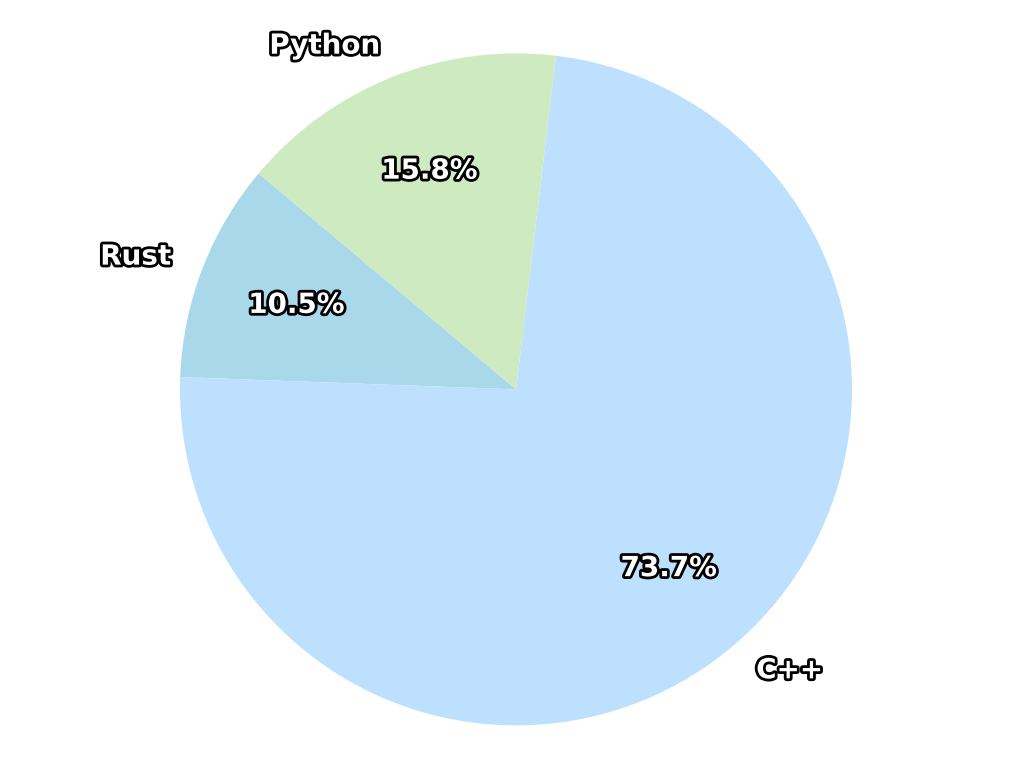
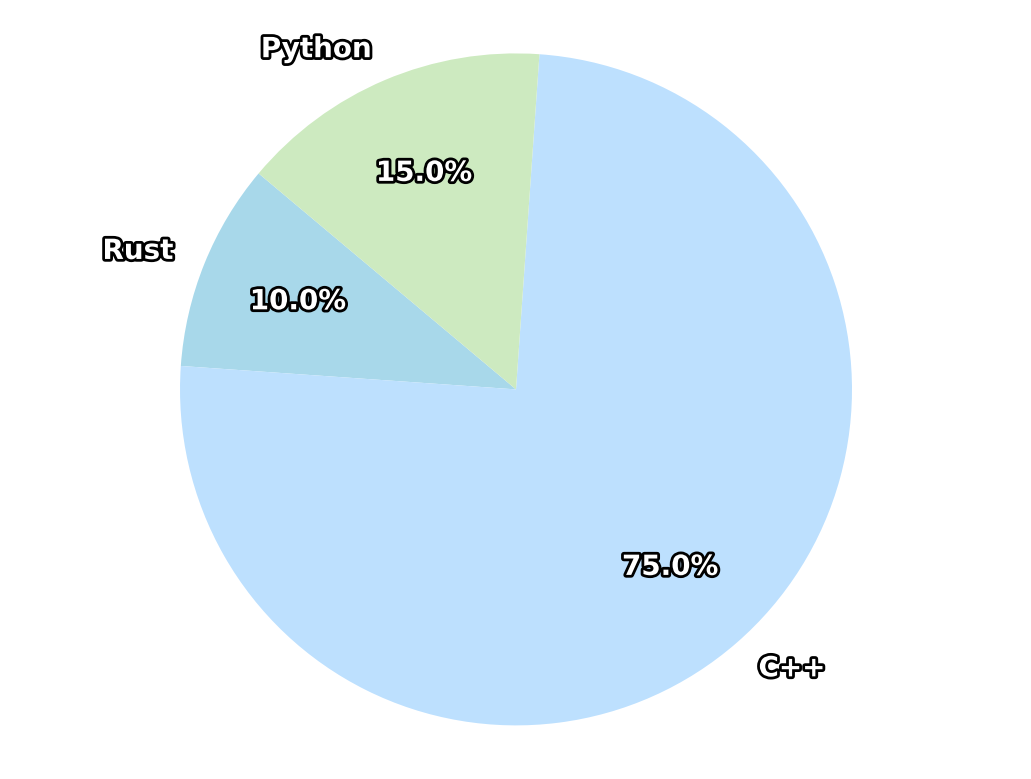
chore: auto-update README [skip ci]

diff --git a/README.md b/README.md
@@ -1,14 +1,14 @@
 # LeetCode Daily Grind
 
-- **Total unique problems:** 19
-- **Current streak:** 12 days
-- **Longest streak:** 12 days
-- **Most recent attempt:** 2025-09-04
+- **Total unique problems:** 20
+- **Current streak:** 13 days
+- **Longest streak:** 13 days
+- **Most recent attempt:** 2025-09-05
 
 ## 🎮 Level & XP
 - **Level:** 3  
-- **XP:** 330 / 400  
-- [███████░░░░░░░░░░░░░░░░░] 30%
+- **XP:** 350 / 400  
+- [████████████░░░░░░░░░░░░] 50%
 
 
 ## 📆 Last 12 Months — Activity Heatmap
@@ -43,6 +43,7 @@
 ## 📜 All Solved Exercises
 | Date | Problem | Language | Solution |
 |------|---------|----------|----------|
+| 2025-09-05 | [2749 Minimum Operations To Make The Integer Zero](https://leetcode.com/problems/minimum-operations-to-make-the-integer-zero/description/) | C++ | [📄](cpp/2749.minimum_operations_to_make_the_integer_zero.cpp) |
 | 2025-09-04 | [3516 Find Closest Person](https://leetcode.com/problems/find-closest-person/description/) | Rust | [📄](rust/3516.find_closest_person.rs) |
 | 2025-09-03 | [3027 Find The Number Of Ways To Place People Ii](https://leetcode.com/problems/find-the-number-of-ways-to-place-people-ii/description) | C++ | [📄](cpp/3027.find_the_number_of_ways_to_place_people_ii.cpp) |
 | 2025-09-02 | [3025 Find The Number Ways To Place People I](https://leetcode.com/problems/find-the-number-of-ways-to-place-people-i/description) | C++ | [📄](cpp/3025.find_the_number_ways_to_place_people_i.cpp) |
